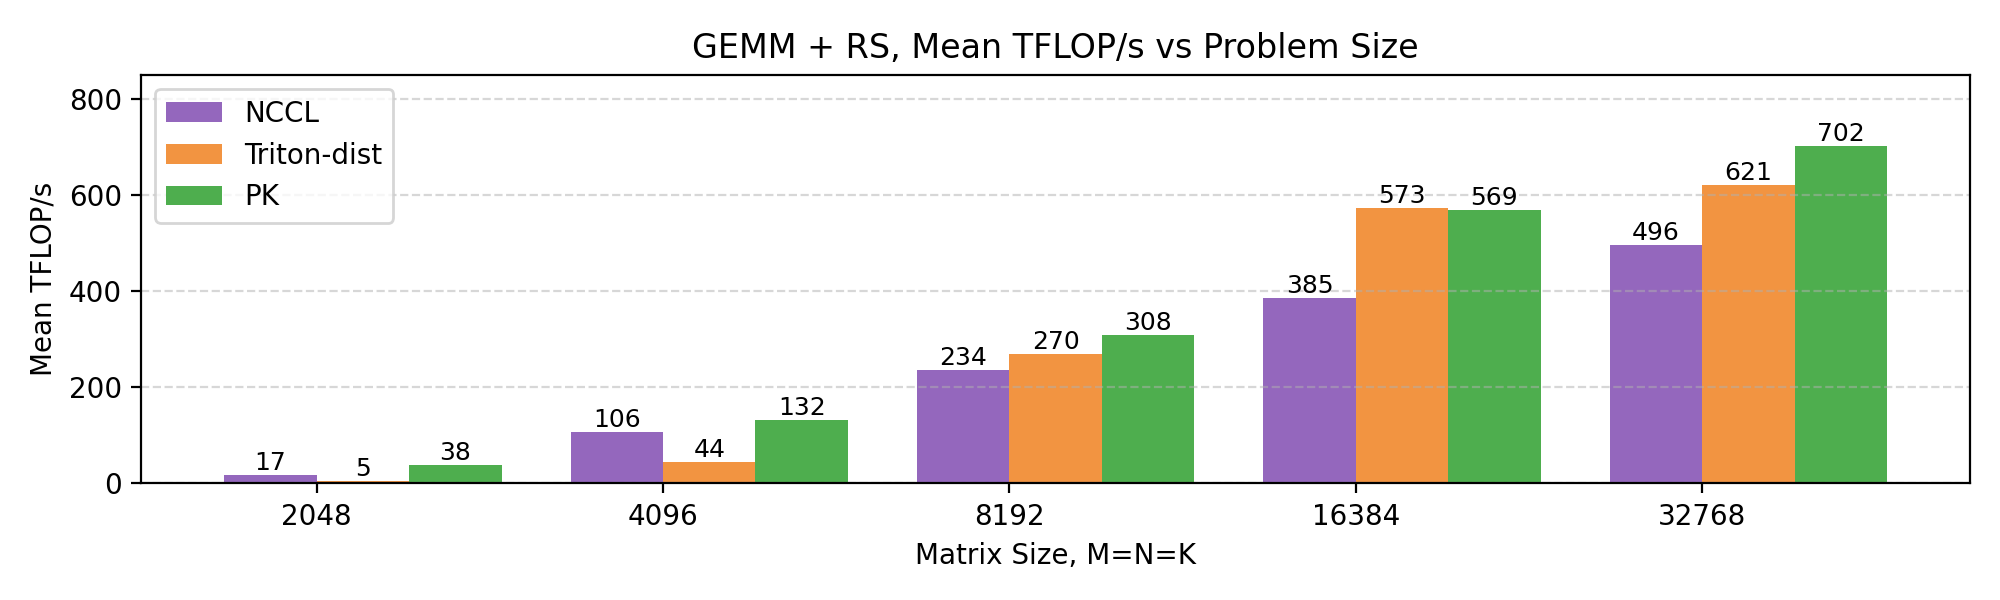
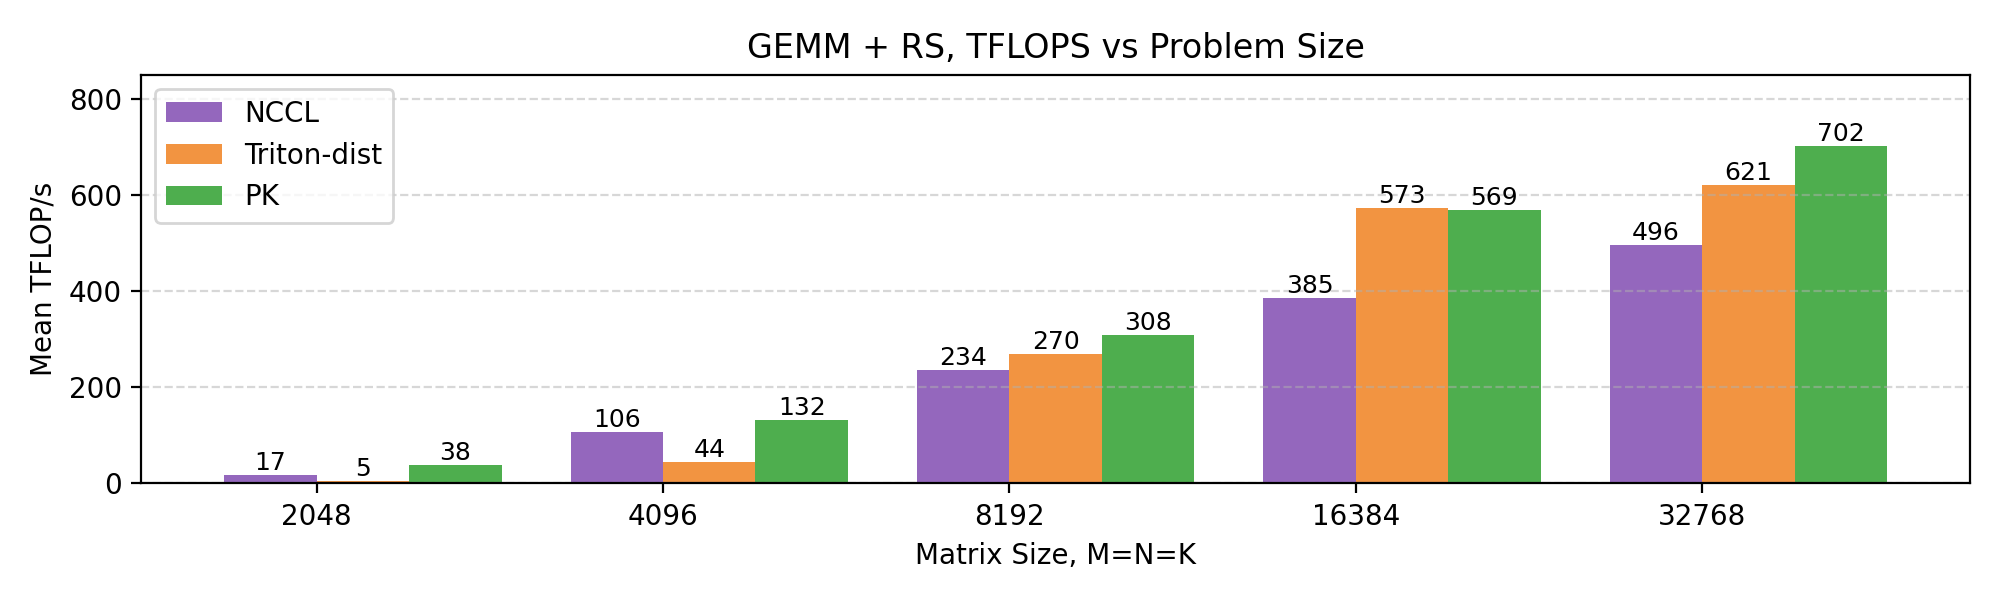
update

Changed region(s): [[0.341, 0.03, 0.713, 0.12]]

diff --git a/kernels/parallel/matmul_rs/out_parse/plot_bar.py b/kernels/parallel/matmul_rs/out_parse/plot_bar.py
@@ -89,7 +89,7 @@ def main():
     plt.xlabel("Matrix Size, M=N=K")
     plt.ylabel(ylabel)
     plt.title(
-        f"GEMM + RS, {ylabel} vs Problem Size"
+        f"GEMM + RS, TFLOPS vs Problem Size"
     )
     plt.legend()
     plt.grid(axis="y", linestyle="--", alpha=0.5)
